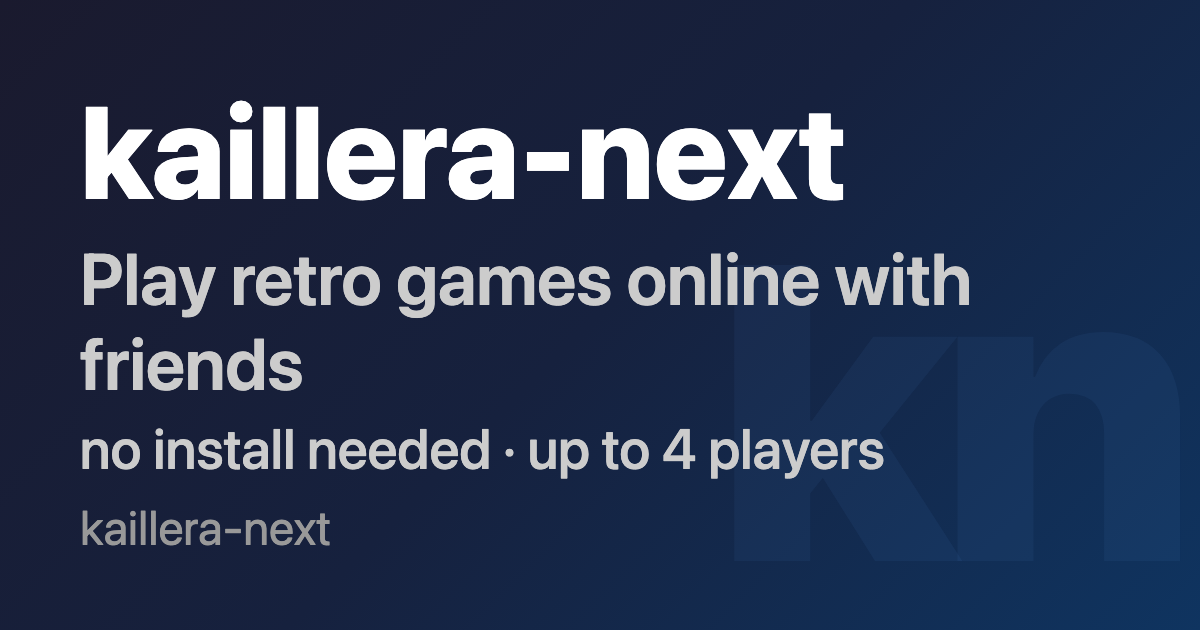
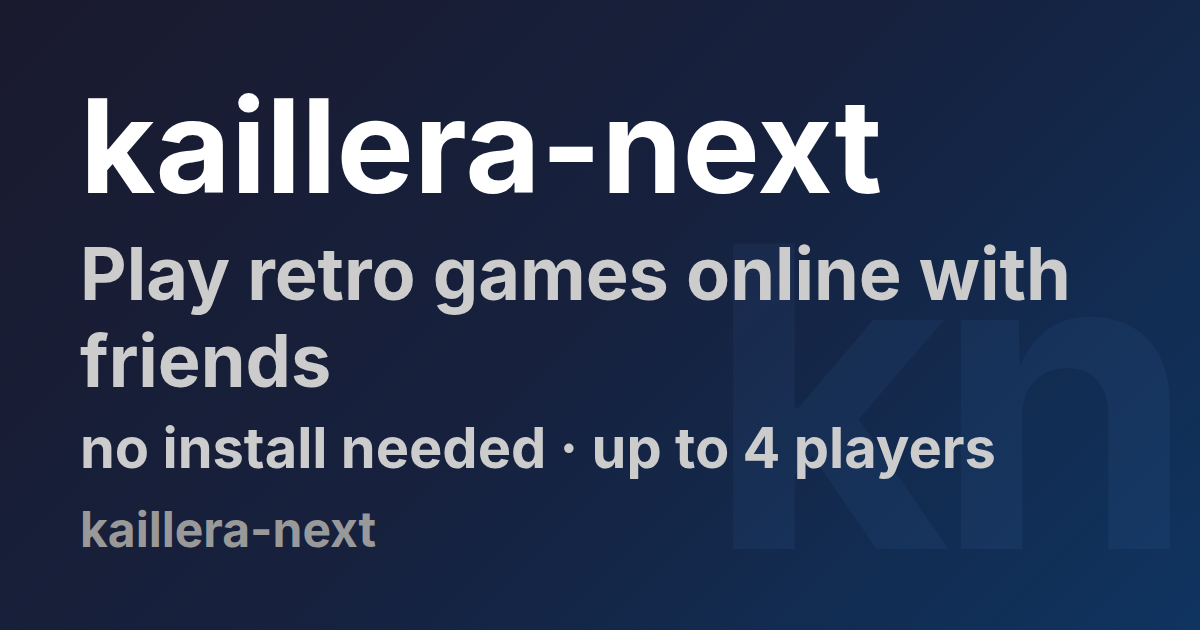
fix(og): commit the Open Graph cards; render them with the right font (#23)
* fix(og): ship the Open Graph cards (they were never committed or copied into the image)

Link previews had no image:
- .gitignore allowed web/static/og/*.png but not og/cards/, so the
  per-game cards generate_og_cards.py writes (ssb64/smash-remix
  play/watch) were never committed; room invite links pointed at 404s.
- .dockerignore excluded every *.png, so even home.png wasn't in the
  image deployed to Render.

Both files now allow the OG cards, and the cards are committed.

generate_og_cards.py also rendered with the wrong font: set_content()
puts the card in about:blank, where Chromium won't load the card's
file:// Inter font, and the wider fallback overflowed the play cards.
It now loads the card from a temporary file:// page and waits for fonts.

Claude-Session: https://claude.ai/code/session_01HugeTS84oaqxeecr2CiHzr

* fix(og): review follow-ups: temp page outside the static tree, stable fallback host; drop the no-op .dockerignore change

- generate_og_cards.py renders each card from a TemporaryDirectory, so a
  killed run can't leave an .html file in the served (and committed) tree.
- _validated_host fell back to next(iter(set)) when the Host header wasn't
  allowed; set order varies per process, so og:image/og:url could become
  https://localhost/... It now falls back to the first configured origin.
- .dockerignore is back as it was: Docker anchors `*.png` to the context
  root, so web/static/og/*.png were never excluded from the image.
[…]

diff --git a/scripts/generate_og_cards.py b/scripts/generate_og_cards.py
@@ -12,6 +12,7 @@ from __future__ import annotations
 
 import asyncio
 import sys
+import tempfile
 from pathlib import Path
 
 # Make the server package importable when running from repo root
@@ -26,11 +27,23 @@ HOME_PNG = ROOT / "web" / "static" / "og" / "home.png"
 
 async def render(html: str, out_path: Path, browser) -> None:
     page = await browser.new_page(viewport={"width": 1200, "height": 630})
-    try:
-        await page.set_content(html, wait_until="networkidle")
-        png = await page.screenshot(type="png")
-    finally:
-        await page.close()
+    # Load the card from a file:// URL, not set_content(): the card's font is
+    # a file:// URL, which Chromium won't load into an about:blank page.
+    # Without it, the wider fallback font overflows the card. The page lives
+    # in a temp directory so nothing is left in the served static tree.
+    with tempfile.TemporaryDirectory() as tmp:
+        card = Path(tmp) / "card.html"
+        card.write_text(html, encoding="utf-8")
+        try:
+            await page.goto(card.as_uri(), wait_until="networkidle")
+            await page.evaluate("document.fonts.ready")
+            # fonts.ready also resolves when a font fails; saving then would
+            # bake the wider fallback into the card, so stop instead.
+            if not await page.evaluate("document.fonts.check('bold 16px Inter')"):
+                raise RuntimeError(f"Inter didn't load for {out_path.name}; not saving")
+            png = await page.screenshot(type="png")
+        finally:
+            await page.close()
     out_path.parent.mkdir(parents=True, exist_ok=True)
     out_path.write_bytes(png)
     print(f"  wrote {out_path.relative_to(ROOT)} ({len(png)} bytes)")

diff --git a/server/src/api/app.py b/server/src/api/app.py
@@ -561,12 +561,20 @@ def create_app(lifespan=None) -> FastAPI:
     # Pre-compute allowed hosts set once at app creation time
     _raw_origin = os.environ.get("ALLOWED_ORIGIN", "").strip()
     _allowed_hosts: set[str] | None = None
+    # Host for absolute URLs (og:image, og:url) when the request's Host isn't
+    # allowed: the first configured origin, e.g. the public domain. A set
+    # has no stable order, so picking from it could yield "localhost".
+    _fallback_host = "localhost"
     if _raw_origin and _raw_origin != "*":
         _allowed_hosts = set()
         for _origin in _raw_origin.split(","):
             _origin = _origin.strip().rstrip("/")
             if "://" in _origin:
                 _origin = _origin.split("://", 1)[1]
+            if not _origin:
+                continue
+            if not _allowed_hosts:
+                _fallback_host = _origin
             _allowed_hosts.add(_origin)
             if ":" in _origin:
                 _allowed_hosts.add(_origin.split(":")[0])
@@ -579,7 +587,7 @@ def create_app(lifespan=None) -> FastAPI:
             return host
         if host in _allowed_hosts:
             return host
-        return next(iter(_allowed_hosts))
+        return _fallback_host
 
     @app.get("/favicon.ico", include_in_schema=False)
     @app.get("/apple-touch-icon.png", include_in_schema=False)
